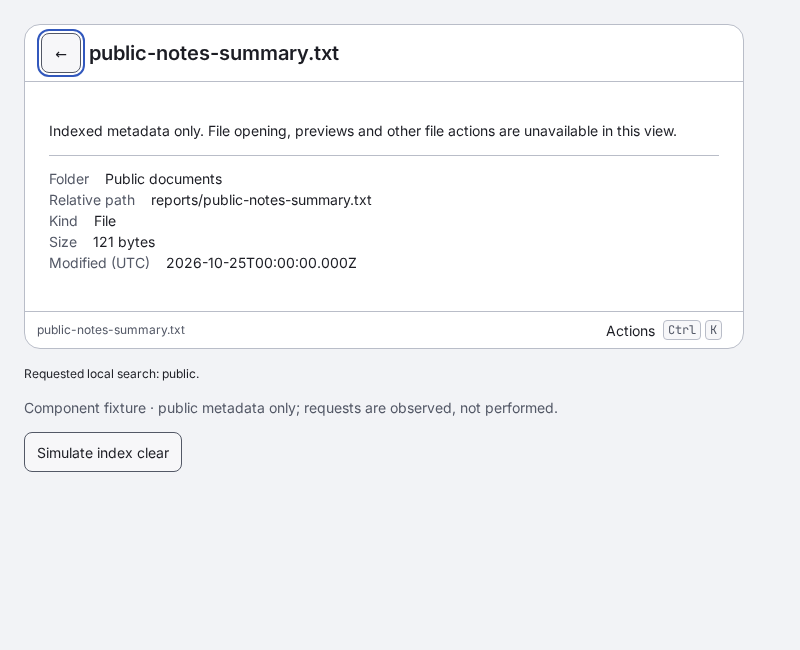
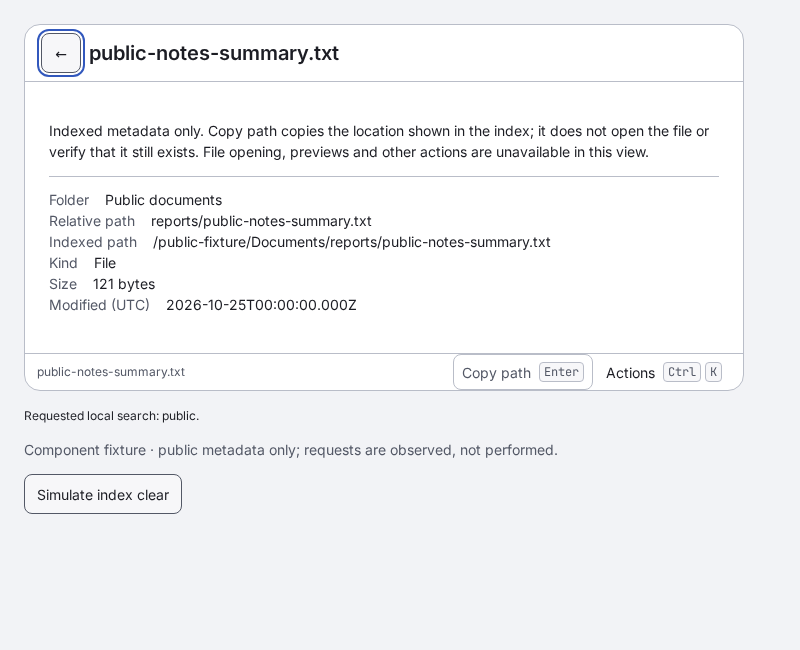
test(files): verify packaged path copying and record unfinished actions

diff --git a/apps/desktop/tests/file-search.integration.test.ts b/apps/desktop/tests/file-search.integration.test.ts
@@ -14,7 +14,7 @@ const executable=createRequire(import.meta.url)('electron') as string;
 let application:ElectronApplication|undefined,temporary='';
 afterEach(async()=>{if(application)await application.close().catch(()=>{application?.process().kill('SIGKILL');});application=undefined;if(temporary)rmSync(temporary,{recursive:true,force:true});});
 async function action(page:Page,title:string){
-  await page.getByRole('searchbox').first().press('Control+k');
+  await page.locator('.lc-view:not([hidden])').focus();await page.keyboard.press('Control+k');
   const filter=page.getByRole('searchbox',{name:'Find an action',exact:true});await filter.fill(title);await filter.press('Enter');
 }
 it('opens selected-folder search through the real launcher and preserves native index/owner semantics across clear, removal and restart',async()=>{
@@ -33,6 +33,8 @@ it('opens selected-folder search through the real launcher and preserves native 
     const launcher=await application.firstWindow();await launcher.waitForURL('linuxcast-app://shell/index.html');await launcher.getByRole('searchbox',{name:'Search commands',exact:true}).waitFor();return {app:application,launcher};
   };
   let {app,launcher}=await launch();
+  const clipboardText=()=>execFileSync('xclip',['-selection','clipboard','-out'],{env,encoding:'utf8',timeout:3000});
+  await app.evaluate(async({clipboard})=>{await clipboard.writeText('PUBLIC_PATH_CLIPBOARD_SENTINEL');});expect(clipboardText()).toBe('PUBLIC_PATH_CLIPBOARD_SENTINEL');
   const openFiles=async()=>{
     const query=launcher.getByRole('searchbox',{name:'Search commands',exact:true});await query.fill('file search');await expect.poll(()=>launcher.getByRole('option',{selected:true}).textContent()).toContain('File search');
     const opened=app.waitForEvent('window');await query.press('Enter');const page=await opened;await page.waitForURL('linuxcast-app://shell/file-search.html');await page.getByRole('searchbox',{name:'Folders',exact:true}).waitFor();return page;
@@ -40,7 +42,7 @@ it('opens selected-folder search through the real launcher and preserves native 
   let files=await openFiles();
   const state=()=>files.evaluate(async()=>{const reply=await (window as unknown as {linuxcastFiles:FileSearchApi}).linuxcastFiles.getState();return reply.ok?reply.value:null;});
   await expect.poll(state).toMatchObject({roots:[]});await expect.poll(()=>files.getByRole('option').count()).toBe(0);
-  expect(await files.evaluate(()=>({node:typeof process,require:typeof (window as unknown as {require?:unknown}).require,keys:Object.keys((window as unknown as {linuxcastFiles:FileSearchApi}).linuxcastFiles).sort()}))).toEqual({node:'undefined',require:'undefined',keys:['chooseFolder','close','getState','onState','pauseIndex','removeFolder','search','startIndex']});
+  expect(await files.evaluate(()=>({node:typeof process,require:typeof (window as unknown as {require?:unknown}).require,keys:Object.keys((window as unknown as {linuxcastFiles:FileSearchApi}).linuxcastFiles).sort()}))).toEqual({node:'undefined',require:'undefined',keys:['chooseFolder','close','copyPath','getState','onState','pauseIndex','removeFolder','search','startIndex']});
   // Native dialogs alone are instrumented; renderer, IPC, native index, storage and lifecycle are production.
   await app.evaluate(({dialog})=>{dialog.showOpenDialog=async()=>({canceled:true,filePaths:[]});});
   await files.getByRole('searchbox',{name:'Folders',exact:true}).press('Enter');expect((await state())?.roots).toEqual([]);
@@ -50,11 +52,18 @@ it('opens selected-folder search through the real launcher and preserves native 
   await action(files,'Index folder');await expect.poll(state).toMatchObject({roots:[{activity:'watching',state:'ready',generation:expect.any(String)}]});
   await search.fill('public');await expect.poll(()=>files.getByRole('option').count()).toBe(2);await search.press('ArrowDown');await search.press('Enter');
   await files.getByRole('heading',{name:'public-summary.txt',exact:true}).waitFor();await expect.poll(()=>files.getByText('public-summary.txt',{exact:true}).count()).toBeGreaterThan(0);
+  expect(clipboardText()).toBe('PUBLIC_PATH_CLIPBOARD_SENTINEL');
   expect(await files.locator('body').textContent()).not.toContain('SYNTHETIC_CONTENT_SENTINEL');expect((await new AxeBuilder({page:files}).setLegacyMode().analyze()).violations).toEqual([]);
-  const evidence=join(root,'packages/builtins/file-search/evidence');mkdirSync(evidence,{recursive:true});
-  await app.evaluate(({nativeTheme})=>{nativeTheme.themeSource='dark';});await expect.poll(()=>files.locator('[data-lc-theme="dark"]').count()).toBeGreaterThan(0);await files.screenshot({path:join(evidence,'application-dark-details.png')});
-  await app.evaluate(({nativeTheme})=>{nativeTheme.themeSource='light';});await expect.poll(()=>files.locator('[data-lc-theme="light"]').count()).toBeGreaterThan(0);await files.screenshot({path:join(evidence,'application-light-details.png')});
-  await files.keyboard.press('Escape');await search.fill('SYNTHETIC_CONTENT_SENTINEL');await expect.poll(()=>files.getByRole('option').count()).toBe(0);
+  const evidence=join(root,'packages/builtins/universal-actions/evidence');mkdirSync(evidence,{recursive:true});
+  await app.evaluate(({nativeTheme})=>{nativeTheme.themeSource='dark';});await expect.poll(()=>files.locator('[data-lc-theme="dark"]').count()).toBeGreaterThan(0);await files.screenshot({path:join(evidence,'application-dark-indexed-path.png')});
+  await app.evaluate(({nativeTheme})=>{nativeTheme.themeSource='light';});await expect.poll(()=>files.locator('[data-lc-theme="light"]').count()).toBeGreaterThan(0);await files.screenshot({path:join(evidence,'application-light-indexed-path.png')});
+  // Querying and showing details never copy. Only the deliberate selected-result action writes.
+  await action(files,'Copy path');await expect.poll(clipboardText).toBe(join(selected,'public-summary.txt'));await expect.poll(()=>files.getByRole('status').textContent()).toBe('Path copied.');
+  await files.keyboard.press('Escape');await search.fill('public-notes');await expect.poll(()=>files.getByRole('option').count()).toBe(1);expect(clipboardText()).toBe(join(selected,'public-summary.txt'));
+  await action(files,'Copy path');await expect.poll(clipboardText).toBe(notes);await expect.poll(()=>files.getByRole('status').textContent()).toBe('Path copied.');
+  // Known unsupported session does not write; recovery needs another explicit action.
+  await app.evaluate(()=>{process.env.XDG_SESSION_TYPE='unknown';});await action(files,'Copy path');await expect.poll(()=>files.getByRole('alert').textContent()).toContain('not copied');expect(clipboardText()).toBe(notes);await app.evaluate(()=>{process.env.XDG_SESSION_TYPE='x11';});expect(clipboardText()).toBe(notes);await action(files,'Copy path');await expect.poll(()=>files.getByRole('status').textContent()).toBe('Path copied.');
+  await search.fill('SYNTHETIC_CONTENT_SENTINEL');await expect.poll(()=>files.getByRole('option').count()).toBe(0);
   renameSync(notes,join(selected,'public-renamed.txt'));await search.fill('public renamed');await expect.poll(()=>files.getByRole('option').count(),{timeout:10000}).toBe(1);
   await action(files,'Pause indexing');await expect.poll(state).toMatchObject({roots:[{activity:'paused'}]});
   // Closing this workspace preserves the resident owner. Reopening reuses saved metadata.
@@ -62,11 +71,18 @@ it('opens selected-folder search through the real launcher and preserves native 
   const quit=async()=>{const exited=new Promise<number|null>(resolve=>app.process().once('exit',resolve));const query=launcher.getByRole('searchbox',{name:'Search commands',exact:true});await query.fill('quit');await query.press('Enter',{noWaitAfter:true});expect(await exited).toBe(0);application=undefined;};
   await quit();({app,launcher}=await launch());files=await openFiles();await expect.poll(state).toMatchObject({roots:[{activity:'paused',state:'ready'}]});
   await files.getByRole('searchbox',{name:'Folders',exact:true}).press('Enter');await files.getByRole('searchbox',{name:'Search files',exact:true}).fill('public renamed');await expect.poll(()=>files.getByRole('option').count()).toBe(1);
+  // Reopened queries establish fresh main-owned selections. Old metadata never opens a source.
+  const admitted=await files.evaluate(async()=>await (window as unknown as {linuxcastFiles:FileSearchApi}).linuxcastFiles.search({query:'public renamed'}));
+  if(!admitted.ok||admitted.value.results.length!==1)throw new Error('Synthetic indexed selection missing.');
+  const savedSelection={resultId:admitted.value.results[0]!.id,rootId:admitted.value.results[0]!.rootId,generation:admitted.value.results[0]!.generation};
+  await action(files,'Copy path');await expect.poll(clipboardText).toBe(join(selected,'public-renamed.txt'));
+
   // This root remains paused: clear must publish invalidation without any live job callback.
   const local=launcher.getByRole('searchbox',{name:'Search commands',exact:true});await local.fill('local data');const opened=app.waitForEvent('window');await local.press('Enter');const data=await opened;await data.waitForURL('linuxcast-app://shell/data-settings.html');
   await app.evaluate(({dialog})=>{dialog.showMessageBox=async()=>({response:1,checkboxChecked:false});});
   expect(await data.evaluate(async()=>await (window as unknown as {linuxcastData:DataSettingsApi}).linuxcastData.clearCategory('file-index'))).toMatchObject({ok:true});
   await expect.poll(()=>files.getByRole('option').count()).toBe(0);await expect.poll(state).toMatchObject({roots:[{activity:'paused',generation:null}]});
+  expect(await files.evaluate(async selection=>await (window as unknown as {linuxcastFiles:FileSearchApi}).linuxcastFiles.copyPath!(selection),savedSelection)).toMatchObject({ok:false});expect(clipboardText()).toBe(join(selected,'public-renamed.txt'));
   // Original sources survive index clearing and both removal outcomes.
   expect(existsSync(join(selected,'public-renamed.txt'))).toBe(true);await data.close();await files.getByRole('searchbox',{name:'Search files',exact:true}).press('Escape');
   await app.evaluate(({dialog})=>{dialog.showMessageBox=async()=>({response:0,checkboxChecked:false});});await action(files,'Remove folder');await expect.poll(()=>files.getByRole('option').count()).toBe(1);

diff --git a/packages/builtins/file-search/tests/controller.test.ts b/packages/builtins/file-search/tests/controller.test.ts
@@ -115,7 +115,7 @@ it('does not assign an old copy receipt to the newly selected result',async()=>{
   let finish!:(value:Awaited<ReturnType<NonNullable<FileSearchApi['copyPath']>>>)=>void;
   const copyPath=vi.fn<NonNullable<FileSearchApi['copyPath']>>(()=>new Promise(resolve=>{finish=resolve;}));const f=setup({copyPath});await settled();await search(f);const pending=invoke(f.controller,'files:copy-path',rows[0]!.id);
   f.controller.session.select(top(f.controller).view.viewId,rows[1]!.id);f.controller.host.selectionChanged?.(top(f.controller).view.viewId,rows[1]!.id);
-  finish({ok:true,value:{outcome:'copied',resultId:rows[0]!.id,rootId,generation,path:root.displayPath+'/'+rows[0]!.path}});await pending;expect(top(f.controller).selection).toBe(rows[1]!.id);expect(top(f.controller).view.status?.message).not.toBe('Path copied.');
+  finish({ok:true,value:{outcome:'copied',resultId:rows[0]!.id,rootId,generation,path:root.displayPath+'/'+rows[0]!.path}});await pending;expect(top(f.controller).selection).toBe(rows[1]!.id);expect(top(f.controller).view.status?.message).toContain('Copy may have occurred');
 });
 
 it('immediately publishes uncertainty when pending List copy returns to Folders without a state event',async()=>{

diff --git a/packages/builtins/file-search/src/controller.ts b/packages/builtins/file-search/src/controller.ts
@@ -22,7 +22,7 @@ export class FileSearchController {
   constructor(api:FileSearchApi){
     this.#api=api;this.session=new ViewSession(this.#foldersView(),id=>this.#closed(id));
     this.#pathCopy=new IndexedPathCopy({api,onChange:()=>this.#publish(),isCurrent:context=>this.#currentCopy(context)});
-    this.host={selectionChanged:()=>this.#publish(),queryChanged:(id,query)=>this.query(id,query),action:intent=>{void this.execute(intent);}};
+    this.host={selectionChanged:()=>{this.#invalidateCopy();this.#publish();},queryChanged:(id,query)=>this.query(id,query),action:intent=>{void this.execute(intent);}};
   }
   getAppearance=()=>this.#state?.appearance??'dark';
   start(){if(this.#active || this.#disposed)return;this.#active=true;this.#unsubscribe=this.#api.onState(state=>{if(this.#active)this.#acceptState(state);});void this.refresh();}

diff --git a/docs/implementation/tasks/L2-03.md b/docs/implementation/tasks/L2-03.md
@@ -1,6 +1,6 @@
 # L2-03 — Implement universal actions and file buffer
 
-Status: **planned**. Lane: `L2`.
+Status: **in-progress**. Lane: `L2`.
 
 This card is generated from [tasks.json](../tasks.json). Edit the registry and rerun `python3 scripts/render_tasks.py`; do not independently edit this card.
 
@@ -42,10 +42,26 @@ Shared contracts, dependency manifests, lockfiles, migration numbering and task 
 ## Acceptance
 
 - [ ] **pending** `L2-03-AC01` — Actions respect cardinality and never replace permanent-delete confirmation.
+  - Command/check: `bun run test:unit -- L2-03; bun run test:security -- L2-03; bun run test:contracts -- L2-03; bun run test:ui -- L2-03; LINUXCAST_PRIVATE_DISPLAY=1 xvfb-run -a bun run test:integration -- L2-03`.
+    Outcome: PARTIAL evidence only; criterion remains pending. Copy path accepts exactly one main-admitted resultID/rootID/generation. Arrays, extra paths/text, forged frames, stale query/root/window generations and unselected/stale/value-bearing UI intents are rejected.63unit/18security/3contract checks pass; main caches only the latest bounded100returned results, derives the canonical path from fresh main-owned selected-root metadata and grants no file read/open authority. Full multi-file/action cardinality and deletion-confirmation requirements remain outstanding.
+    Platform/backend: Linux amd64 development host; pinned Node24.22.1/Bun1.4.4, Electron45.0.0/SQLite3.53.4, packaged Rust1.95 helper; Chromium fixtures and owned private-Xvfb/X11 with independent native xclip reader. Folder chooser/removal dialogs instrumented. No Debian GNOME/KDE/native Wayland/AT/installed-package/release acceptance.
+    Reference: Shared2e2aaaa, workspaceb5704ad, sharedhost0744dae, author342929f integratedaa9b567, main/preload/controller9c62d92 plus final selection-warning/test delta; packages/builtins/universal-actions/README.md and evidence/; apps/desktop/tests/file-search.integration.test.ts; scripts/test-runner/suites.json
 - [ ] **pending** `L2-03-AC02` — Preview/index cache deletion cannot delete source files.
+  - Command/check: `bun run test:unit -- L2-03; bun run test:security -- L2-03; bun run test:contracts -- L2-03; bun run test:ui -- L2-03; LINUXCAST_PRIVATE_DISPLAY=1 xvfb-run -a bun run test:integration -- L2-03`.
+    Outcome: PARTIAL evidence only; criterion remains pending. Copy operation performs only pure metadata formatting plus explicit CLIPBOARD write/readback, with no source stat/read/open/mutation. Actual production file/index/owner flow5.50s preserves original sources through paused index clearing and cancelled/confirmed removal; saved pre-clear selection cannot copy after index generation becomes null. Full preview/cache deletion acceptance remains required.
+    Platform/backend: Linux amd64 development host; pinned Node24.22.1/Bun1.4.4, Electron45.0.0/SQLite3.53.4, packaged Rust1.95 helper; Chromium fixtures and owned private-Xvfb/X11 with independent native xclip reader. Folder chooser/removal dialogs instrumented. No Debian GNOME/KDE/native Wayland/AT/installed-package/release acceptance.
+    Reference: Shared2e2aaaa, workspaceb5704ad, sharedhost0744dae, author342929f integratedaa9b567, main/preload/controller9c62d92 plus final selection-warning/test delta; packages/builtins/universal-actions/README.md and evidence/; apps/desktop/tests/file-search.integration.test.ts; scripts/test-runner/suites.json
 - [ ] **pending** `L2-03-UI` — Relevant design states and keyboard/accessibility paths are covered for user-facing changes.
   - Applies when: This task introduces or changes user-facing behaviour.
-- [ ] **pending** `L2-03-PRIVACY` — No secrets/private content enter fixtures, diagnostics or screenshots.
+  - Command/check: `bun run test:unit -- L2-03; bun run test:security -- L2-03; bun run test:contracts -- L2-03; bun run test:ui -- L2-03; LINUXCAST_PRIVATE_DISPLAY=1 xvfb-run -a bun run test:integration -- L2-03`.
+    Outcome: PARTIAL evidence only; criterion remains pending.10new Chromium keyboard/axe checks plus12file-search/10shared-view/19calculator browser regressions pass;16shared units and43calculator security checks pass. Actual production5.50s demonstrates Detail/List copying, session-unavailable/manual-retry, close/reopen/restart and stale-index invalidation, with actual dark/light captures inspected. Pending native primary focusloss fixed with aria-disabled, preserving Escape without dispatch; independent review found and verified repairs for immediate Detail action publication and pending List→Folders warning. Full feature/native/AT acceptance remains unfinished.
+    Platform/backend: Linux amd64 development host; pinned Node24.22.1/Bun1.4.4, Electron45.0.0/SQLite3.53.4, packaged Rust1.95 helper; Chromium fixtures and owned private-Xvfb/X11 with independent native xclip reader. Folder chooser/removal dialogs instrumented. No Debian GNOME/KDE/native Wayland/AT/installed-package/release acceptance.
+    Reference: Shared2e2aaaa, workspaceb5704ad, sharedhost0744dae, author342929f integratedaa9b567, main/preload/controller9c62d92 plus final selection-warning/test delta; packages/builtins/universal-actions/README.md and evidence/; apps/desktop/tests/file-search.integration.test.ts; scripts/test-runner/suites.json
+- [x] **passed** `L2-03-PRIVACY` — No secrets/private content enter fixtures, diagnostics or screenshots.
+  - Command/check: `bun run test:unit -- L2-03; bun run test:security -- L2-03; bun run test:contracts -- L2-03; bun run test:ui -- L2-03; LINUXCAST_PRIVATE_DISPLAY=1 xvfb-run -a bun run test:integration -- L2-03`.
+    Outcome: Only public synthetic filenames, roots, clipboard sentinels and metadata enter fixtures/screenshots. Copied path derives from the existing index and is not logged or persisted as copy history. No file content, raw keyboard data, secrets, network or plugin grants introduced. Named request contains identity only; UI validates exact copied identity/path receipt. Errors strip raw private backend sentinels. Actual test verifies no content-token search/preview and unchanged clipboard before explicit Copy; all native clipboard operations stay on isolated owned private display.
+    Platform/backend: Linux amd64 development host; pinned Node24.22.1/Bun1.4.4, Electron45.0.0/SQLite3.53.4, packaged Rust1.95 helper; Chromium fixtures and owned private-Xvfb/X11 with independent native xclip reader. Folder chooser/removal dialogs instrumented. No Debian GNOME/KDE/native Wayland/AT/installed-package/release acceptance.
+    Reference: Shared2e2aaaa, workspaceb5704ad, sharedhost0744dae, author342929f integratedaa9b567, main/preload/controller9c62d92 plus final selection-warning/test delta; packages/builtins/universal-actions/README.md and evidence/; apps/desktop/tests/file-search.integration.test.ts; scripts/test-runner/suites.json
 
 ## Validation
 
@@ -60,8 +76,13 @@ bun run test:integration -- L2-03
 
 Coordinator records the implementation PR/commit, check outcomes, desktop/backend versions where relevant, visual evidence for UI changes, and any outstanding limitation in `tasks.json`. Do not mark done merely because the document or a mock exists.
 
-No completion evidence recorded.
+- Bounded Copy path application increment26October2026: coordinator contracts/canonical indexed-path formatter2e2aaaa and workspace linksb5704ad; application author342929f integratedaa9b567; sharedfooter navigation fix0744dae; main/preload/file-search selection integration9c62d92 plus final selection-warning delta. All authors/reviewer GPT-6.1 SOL/high. Final independent source review clean after fixing erased invalidate return type, Detail action initially built before becoming current, and missing immediate pending List→Folders warning publication.
+- Pinned runtime checks PASS:63L2-03unit (29copy presentation+31file-search controller+3shared native clipboard writer),18main/preload security,3contracts,10newChromiumkeyboard/axe,12file-search+10shared-view+19calculator browser regressions;16shared-view units and43calculator security. Typecheck/lint/frozeninstall/plan/diff pass. Initial stale readonly-detail test expectation was updated for the intentional new action; final mapped units pass. Explicit typed test mocks corrected without weakening production types.
+- Actual packaged Electron45/SQLite3.53.4/native Rust/private-Xvfb/X11 + independent xclip flow5.50s PASS: registered File search→selected folder→explicit Index→query/arrows/Details; no clipboard change until Copy; real full absolute path copies from Detail and List; known unsupported session leaves clipboard unchanged and only deliberate recovery retry copies. Rename watching, close/reopen, full restart paused and fresh query/copy work. Clearing paused index proactively removes rows and denies saved old identity without writing; originals survive clearing and cancelled/confirmed folder removal; Quit while watching succeeds. Native chooser/confirmation alone instrumented. Actual dark/light indexed-path screenshots inspected; axe passes. Existing production calculator/unit-copy flow5.52s passes through the same clipboard guard. Smoke durations are not performance acceptance.
+- Main-only shared native clipboard writer rejects concurrent builtin effects instead of queuing, awaits Electron45 async write/readback and retains native pending until actual settlement. File copy receipt deadline4s and UI5s never undo/replay uncertain writes; Close remains available. Query/service/root/window/mutation invalidation prevents prewrite stale metadata. Exact copied result/root/generation/path must match current UI context; pending Back or selection changes warn that copying may have occurred. No file-open/read or arbitrary renderer clipboard API added.
 
 ## Outstanding limitations
 
-No limitations recorded; pending criteria still require verification.
+- Reviewed first bounded Copy path increment for one selected indexed file/directory result only; full task remains in-progress. Full typed text/URL/file-list actions, ordered multi-file buffer, open/open-with/reveal/move/rename/trash/conflicts/terminal, safe previews/large text and extension entry points remain required.
+- L2-02/F3-01/D1-02 broader prerequisites remain in-progress. Reuse only reviewed builtin metadata/shared-view boundaries under the user-authorized unfinished-increment sequencing; no file-open/read authority, plugin permission grant or full prerequisite acceptance is inferred.
+- Native Debian13 GNOME/KDE Wayland/X11, assistive technology, installed-package and release acceptance remain outstanding. Indexed path copying is a clipboard metadata operation, not a source existence/readability/open confirmation.

diff --git a/docs/implementation/PROGRESS.md b/docs/implementation/PROGRESS.md
@@ -145,3 +145,17 @@ PR33 https://github.com/ianwijma/linuxcast/pull/33 merged851f6f2df794667df4479a0
 Coordinator now `.worktrees/linuxcast-application-controls` / `codex/selected-file-copy-path` from merged851f6f2, checkpointonly. Next selected bounded application flow is L2-03: choose an indexed file-search result and explicitly Copy path using existing file search/shared host views and actual system CLIPBOARD. Full L2-03 card has been read; before implementation re-read its extension/Linuxintegration/product/testing refs and security/design. Freeze coordinator-owned narrow selected-result copy contract/service/main integration before assigning the SOL-high application author. No source/contract/author assignment exists yet; L2-03 remains planned until actual work starts. No generic clipboard writer, arbitrary renderer path authority, file open/read/move/trash, new infrastructure/research/proof or source-file mutation is authorized by this narrow selection. Future file-open and other full universal-action/buffer/preview scope remain required.
 
 L2-03 dependencies L2-02/F3-01/D1-02 remain broader in-progress, not accepted by status inference. Only reuse reviewed integrated builtin metadata/sandboxed shared view boundaries under the user's unfinished-increment sequencing; preserve extension permission and native acceptance gates. Index IDs/display paths are metadata, never file read/open authority. Explicit indexed path copying must revalidate its main-owned selection/root identity, invalidate stale query/root/window state, bound pending/unknown native clipboard writes and require exact acknowledgement without replay. Actual private-Xvfb/native reader, affected dark/light UI and independent review are required before merging. Do not assign open-ended infrastructure/research/proof work or reactivate older Astra agents; every future subagent must GPT-6.1 SOL/high.
+
+## Active L2-03 selected-result Copy path increment
+
+Coordinator .worktrees/linuxcast-application-controls / codex/selected-file-copy-path from merged851f6f2. Shared expression-free selected-result contract, canonical indexed display-path formatter and workspace integration2e2aaaa. Main/preload cached-selection dispatch, fresh selected-root checks, cache invalidation and shared native clipboard single-flight guard under development. Application author manifest_review_sol (GPT-6.1 SOL/high) .worktrees/linuxcast-l1-01 / codex/l2-03-path-copy-ui owns only new universal-actions presentation/tests/fixture/evidence/README. Independent alias_review_sol (same model/effort) reviewing current coordinator boundary. No infrastructure/research/proof work or older Astra agent resumed.
+
+L2-03 is now in-progress; all four criteria remain pending. No new tests/actual clipboard evidence claimed yet. Main accepts result identity only from latest admitted metadata, never caller paths/clipboard text; this operation does not resolve/read/open/mutate source files. Full actions/buffer/previews and native/release scope unchanged. Next finish coordinator routing/checks, integrate author UI, run actual owned private-Xvfb/xclip application flow, independent final review and focusedPR/normalmerge.
+
+## L2-03 reviewed Copy path candidate ready for PR
+
+Coordinator codex/selected-file-copy-path at9c62d92 plus final selection-warning/test/evidence delta. Shared2e2aaaa, workspaceb5704ad, sharedhost0744dae, author342929f integratedaa9b567. Every author/reviewer GPT-6.1 SOL high completed; final source review clean. Three review findings resolved: erased invalidate member type, initial Detail action publication before current frame, and immediate pending List→Folders warning publication. Reproduced pending primary pointer-focusloss fixed by shared aria-disabled with existing dispatch guard. No infrastructure/proof assignment or native acceptance claim.
+
+PASS63mapped unit/18security/3contracts/10newbrowser,12file-search+10shared+19calculator browser regressions,16shared units/43calculator security, typecheck/lint/frozeninstall/plan/diff. Actual packaged file-search/selected-path/native-xclip/restart/clear/removal flow5.50s and existing actual calculator flow5.52s pass. Dark/light actual indexed-path captures inspected; public synthetic metadata only. Dialogchoices instrumented; backend clipboard/native index/sole owner are real. Full L2-03 remains in-progress; only current privacy criterion passed, full actions/buffer/previews/nativeAT/installedpackage/release pending.
+
+Remaining now: commit exact final evidence, push focusedPR, inspect current-headCI/requestedGitHubreviews then normal exact-head merge; refreshprimary/build and durablecheckpoint. Full97task goal ACTIVE. This turn has concrete implemented/tested/reviewed application progress, not a wait/no-progress turn.

diff --git a/packages/builtins/universal-actions/README.md b/packages/builtins/universal-actions/README.md
@@ -76,3 +76,41 @@ buffer, preview/large-text windows, open/open-with/reveal, move/rename/trash wit
 conflict/restore policy, terminal actions and required deletion confirmations.
 No preview/index-cache deletion path or original-file mutation is added here.
 The complete local 1.0 scope is unchanged.
+
+## Integrated application evidence
+
+Coordinator checks on the pinned runtime pass:63mapped units (29presentation,
+31file-search controller,3shared native writer),18main/preload security,
+3contracts and10Chromium keyboard/axe. Shared host changes additionally pass
+16shared units,10shared-view/12file-search/19calculator browser regressions,
+and43calculator main/preload security checks. Typecheck/lint/frozeninstall and
+plan/diff validation pass. Independent GPT-6.1 SOL/high final source review is
+clean. Its two UI publication findings now have regression assertions: Detail
+Copy is enabled immediately under a stable paused root, and pending List→Folders
+Back immediately publishes the uncertainty warning without waiting for an event.
+The shared primary action remains focusable with aria-disabled while pending;
+dispatch is guarded, and Escape works after pointer activation.
+
+Actual production Electron45/SQLite3.53.4 and packaged native index/helper run in
+an owned private Xvfb/X11 profile. The5.50second file flow uses a separate native
+xclip reader to verify no copy on query/Details, explicit absolute path copying
+from both Detail and List, known unsupported session without writes and manual
+recovery. Real rename watching, resident close/reopen, full process restart paused
+and fresh query/copy are covered. Paused index clear removes rows proactively;
+a saved old result identity is rejected without another write. Original sources
+survive clearing and both folder-removal outcomes; Quit closes an active watcher.
+Native folder chooser/confirmation choices alone are instrumented. Actual
+`evidence/application-{dark,light}-indexed-path.png` captures were inspected and
+axe passes. The existing packaged calculator flow also passes in5.52seconds
+through the same native clipboard guard. Durations are smoke observations, not
+performance acceptance. No user's display or private clipboard is touched.
+
+The request exposes no clipboard payload or path argument. Main caches only the
+latest bounded admitted metadata and rechecks selected-root state before deriving
+the canonical path. A shared main-only native writer rejects concurrent effects
+rather than queuing them. A4second main receipt deadline retains its slot until
+the native effect settles; closing does not undo a possible write. Error replies
+and UI status remain fixed safe text. Copying does not create path history,
+resolve symlinks, verify existence, open a source or grant extension authority.
+Native desktop denial/session/AT, installed-package and full release gates remain
+outstanding along with all other full L2-03 actions/buffer/previews.

diff --git a/packages/builtins/file-search/README.md b/packages/builtins/file-search/README.md
@@ -35,9 +35,10 @@ and resident jobs are service-owned; closing/disposal of this window does not
 call Pause indexing or stop jobs.
 
 The selected result's **Show details** action opens a read-only shared Detail.
-Its Markdown is static; root name, relative path, kind, byte size and UTC modified
-time are plain metadata fields. Filenames cannot create links, markup or file
-actions. Opening, previews and other file actions are explicitly unavailable.
+Its Markdown is static; root name, relative and indexed absolute path, kind, byte
+size and UTC modified time are plain metadata fields. Filenames cannot create links, markup or file
+actions. Explicit Copy path is available through the bounded L2-03 integration;
+opening, previews and other file actions remain unavailable.
 Escape/back returns Detail → Results → Folders, preserving query, selected ID and
 focus; Escape from Folders calls only the named close API. Failure restores a
 usable root with an actionable error.
@@ -111,3 +112,18 @@ Resolved findings include stale-window Close, paused-index clear publication,
 and native removal confirmation waiting longer than five seconds; two fake-time
 regressions verify ten-second waits followed by cancellation or confirmation.
 Unknown backend mutations still require explicit Refresh; no automatic replay.
+
+## Selected-result Copy path integration (L2-03)
+
+The Results list has Copy path after Show details; Details makes Copy path
+primary. Both use the shared `IndexedPathCopy` presentation from universal-actions,
+with exact current view/selection/root/generation checks and a main-derived
+indexed path receipt. Rendering, query/selection and Details opening never copy.
+The strict named API submits result identity only. Missing clipboard access is
+visible and actionable. Pending navigation/selection changes warn that copying
+may have occurred; late replies cannot show success for a different result.
+Main's metadata identity confers no file-open/read authority. Copying uses the
+index location without asserting that the source exists. Actual copy/restart/
+clear evidence and full remaining scope are in ../universal-actions/README.md.
+The full L2-02 content/filter/sort/path-navigation/recent-file acceptance remains
+unfinished alongside broader native/AT/package/release prerequisites.
